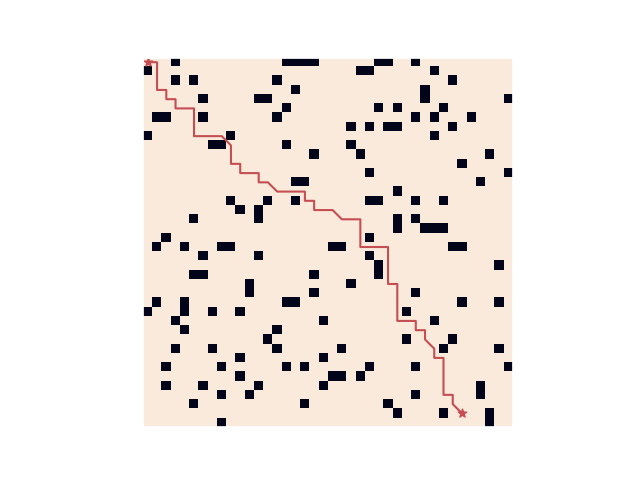
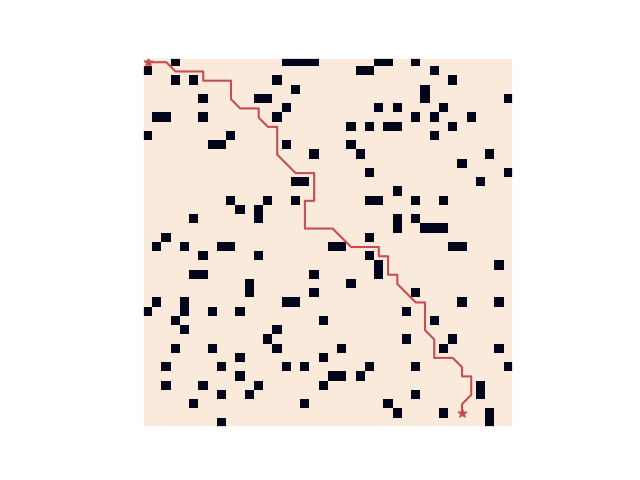
增加A*与ACO的对比

diff --git a/Algor/PathPlaning/gsearch.py b/Algor/PathPlaning/gsearch.py
@@ -1,15 +1,19 @@
-import numpy as np
+import multiprocessing
+import os
+import pickle
+import sys
+import threading
+import time
+
 import matplotlib
 import matplotlib.pyplot as plt
-import threading
-import multiprocessing
-import pickle
+import numpy as np
 import seaborn as sns
-from get_map import Map
+
 from aco import get_data
-import os
-import time
-import sys
+from get_map import Map
+
+np.random.seed(200)
 '''
 图搜索的三种算法实现路径规划
 '''
@@ -402,15 +406,16 @@ if __name__ == '__main__':
     my_map = Map(map_data, start_point, end_point)
 
 
-    # # 与蚁群算法对比
-    # map_data = get_data(1000, 1000, 0.01)
-    # # 2 定义起始点和目标点生成图
-    # start_point = [849, 324]
-    # end_point = [86, 870]
-    # my_map = Map(map_data, start_point, end_point)
+    # 与蚁群算法对比
+    # 1 生成数据
+    map_data = get_data(40, 40, 0.1)
+    # 2 定义起始点和目标点生成图
+    start_point = [0, 0]
+    end_point = [38, 34]
+    my_map = Map(map_data, start_point, end_point)
 
     # 3 定义算法
-    model = GraphSearch(my_map, alg='B', mode=1)
+    model = GraphSearch(my_map, alg='D', mode=1)
 
     # 4 运行算法，得到结果展示
     time0 = time.time()

diff --git a/Algor/WeightGraph/gsearch.py b/Algor/WeightGraph/gsearch.py
@@ -103,8 +103,15 @@ class GSearch:
         self.result_path = np.array(self.result_path)
         self.explore_path = np.array(self.explore_path)
 
-    def plot(self):
+    def plot(self,explore = False):
         self.map.plot_nodes(paths=self.result_path, dynamic=False)
+        # for i in range(len(self.explore_path)):
+        plot_numbers = 2
+        for i in range(int(len(self.explore_path) / plot_numbers)+1):
+            plt.plot(self.explore_path[plot_numbers * i:plot_numbers * (i + 1), 1],
+                       self.explore_path[plot_numbers * i:plot_numbers * (i + 1), 0], c='g', alpha=0.5)
+            plt.pause(0.0001)
+
 
     def get_f(self, g, h):
         # 设置Node的f值
@@ -133,10 +140,10 @@ class GNode:
 
 
 def main():
-    wg_map = WeightGraph(data_resoure=6)
+    wg_map = WeightGraph(data_resoure=2)
     gs_alg = GSearch(wg_map, 'D')
     gs_alg.find_path()
-    gs_alg.plot()
+    gs_alg.plot(explore=True)
     plt.show()
 
 

diff --git a/Algor/PathPlaning/get_map.py b/Algor/PathPlaning/get_map.py
@@ -27,7 +27,7 @@ class Map:
     def is_valid(self, position):
         # 判断点是否有效，是否在边界内
         # 增加strip，防止里边界过近
-        strip = 20
+        strip = 0
         if position[0] < strip+0 or position[0] >= self.data.shape[0]-strip or position[1] < strip+0 or position[1] >= self.data.shape[1]-strip:
             return False
         if self.data[position[0], position[1]] == 0:

diff --git a/Algor/PathPlaning/aco.py b/Algor/PathPlaning/aco.py
@@ -24,7 +24,7 @@ class Ant:
 
     def __init__(self, my_map):
         self.map = my_map
-        self.numant = 100  # 蚂蚁个数
+        self.numant = 400  # 蚂蚁个数
         self.numcity = self.map.shape[0]*self.map.shape[1]  # 点的数量
         self.alpha = 1  # 信息素重要程度因子
         self.beta = 5  # 启发函数重要程度因子

diff --git a/README.md b/README.md
@@ -24,5 +24,7 @@
 ### 有权图规划
 * 利用PRM将原始图像转换成特殊的有权图形式，比一般的有权图多了坐标
 * 利用不同算法对其求解
+* A星，Dijkstra，BFS
+* 蚁群算法、遗传算法、PSO优化方法来对路径规划进行优化
 
 
